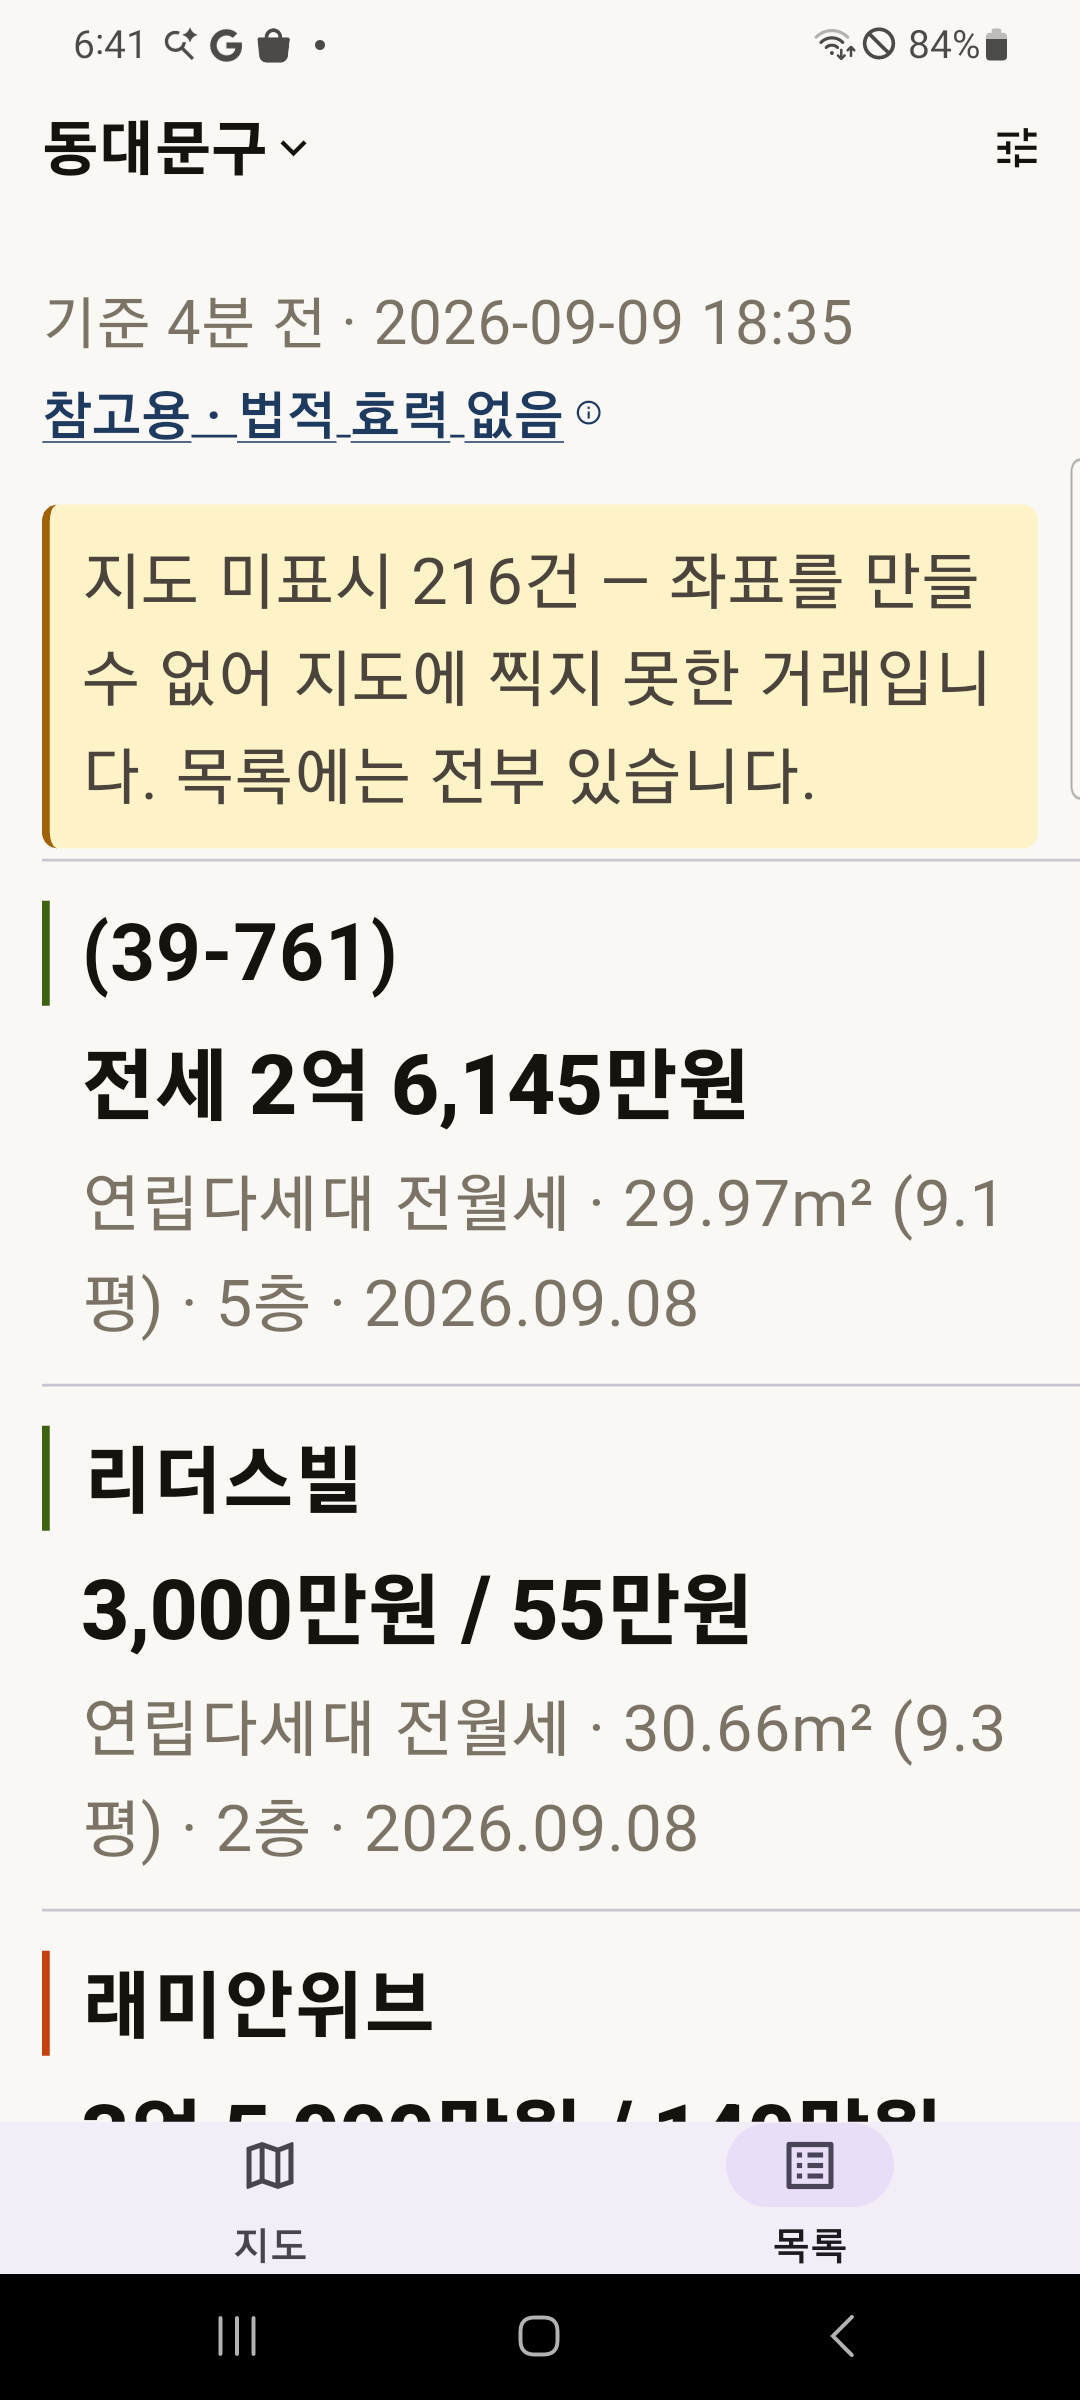
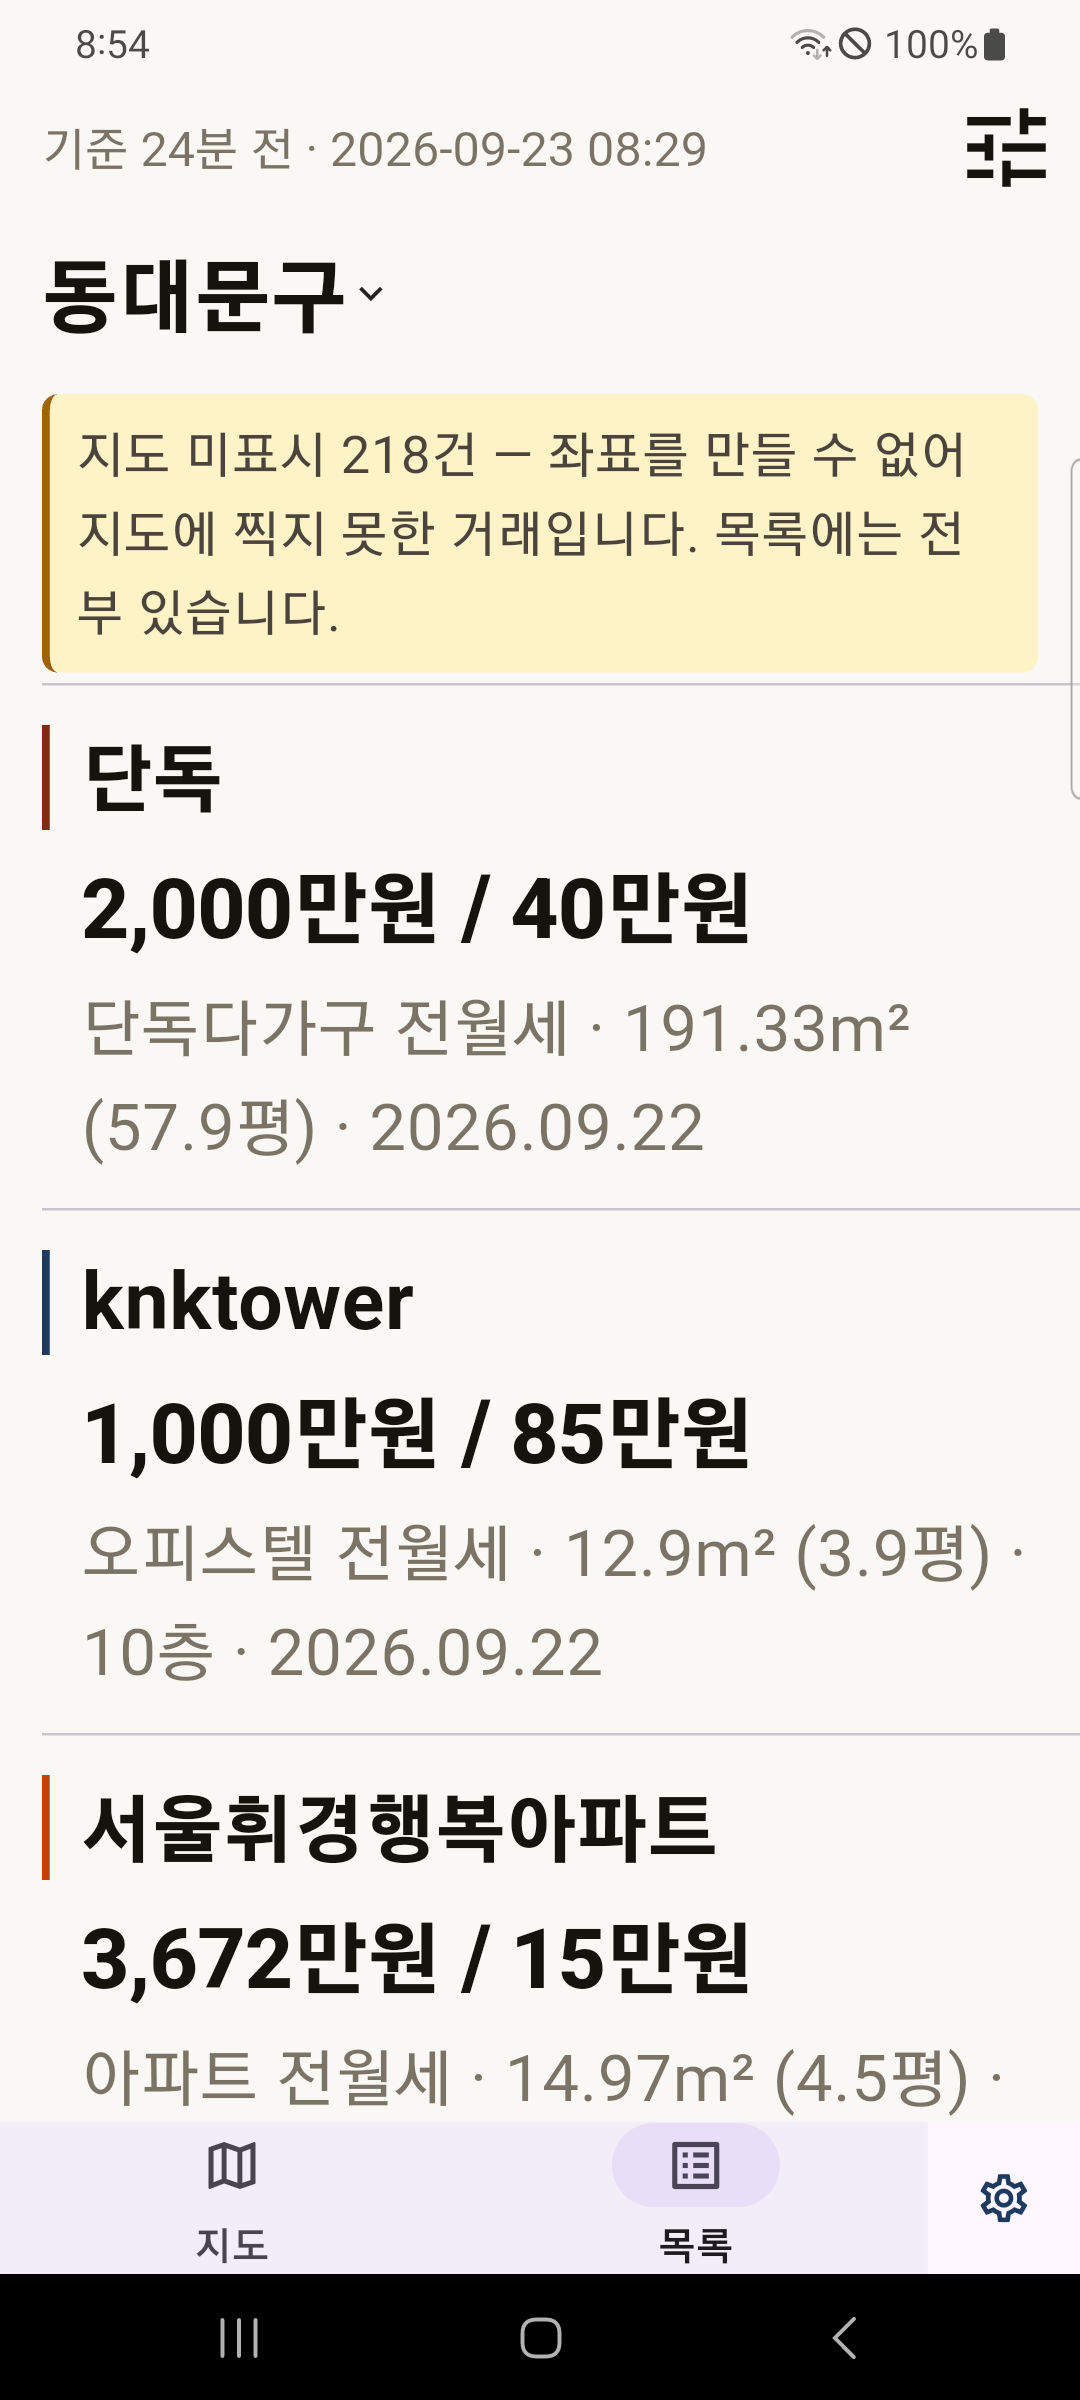
fix: 뒤로 가기가 검색창 대신 앱을 닫던 것
검색창을 열어 둔 채 기기의 뒤로 가기를 누르면 앱이 통째로 꺼졌다.
사용자는 검색만 접으려던 것이라 "뒤로 갔더니 앱이 죽었다"로 읽힌다.
안드로이드에서 뒤로 가기는 열린 것을 먼저 닫는 단추다.

검색창이 열려 있는 동안만 PopScope로 받아 닫는다. 위젯 시험은 두드리기만
했기 때문에 이것을 잡을 수 없었다 — 기기의 뒤로 가기는 위젯이 아니라
플랫폼에서 오므로, 그 신호(popRoute)를 그대로 넣는 시험을 먼저 실패시킨 뒤
고쳤다.

스토어 스크린샷 8장도 같은 출시 빌드로 다시 찍었다. 9월 9일 판에는
검색 단추도 설정 탭도 없다.

diff --git a/app/lib/features/map/search_box.dart b/app/lib/features/map/search_box.dart
@@ -149,53 +149,63 @@ class _MapSearchBoxState extends ConsumerState<MapSearchBox> {
       );
     }
 
-    return Column(
-      crossAxisAlignment: CrossAxisAlignment.stretch,
-      children: [
-        Material(
-          color: Palette.surface,
-          elevation: 2,
-          borderRadius: BorderRadius.circular(24),
-          child: Row(
-            children: [
-              const SizedBox(width: 14),
-              const Icon(Icons.search, size: 20, color: Palette.ink3),
-              const SizedBox(width: 8),
-              Expanded(
-                child: TextField(
-                  controller: _controller,
-                  focusNode: _focus,
-                  textInputAction: TextInputAction.search,
-                  onChanged: _onChanged,
-                  style: const TextStyle(fontSize: 15, color: Palette.ink),
-                  decoration: const InputDecoration(
-                    isDense: true,
-                    border: InputBorder.none,
-                    hintText: '동 이름 · 단지 이름 (예: 중곡동, ㅈㄱㄷ)',
-                    hintStyle: TextStyle(fontSize: 14, color: Palette.ink3),
+    // 안드로이드의 뒤로 가기는 **열린 것을 먼저 닫는** 단추다. 막아 두지 않으면
+    // 검색창만 접으려던 사람에게 앱이 통째로 꺼진다 — 화면에 열린 것이 있는데
+    // 뒤로 가기가 그것을 그냥 지나치면, 사용자는 앱이 죽었다고 읽는다.
+    return PopScope(
+      canPop: false,
+      onPopInvokedWithResult: (didPop, _) {
+        if (didPop) return;
+        _toggle();
+      },
+      child: Column(
+        crossAxisAlignment: CrossAxisAlignment.stretch,
+        children: [
+          Material(
+            color: Palette.surface,
+            elevation: 2,
+            borderRadius: BorderRadius.circular(24),
+            child: Row(
+              children: [
+                const SizedBox(width: 14),
+                const Icon(Icons.search, size: 20, color: Palette.ink3),
+                const SizedBox(width: 8),
+                Expanded(
+                  child: TextField(
+                    controller: _controller,
+                    focusNode: _focus,
+                    textInputAction: TextInputAction.search,
+                    onChanged: _onChanged,
+                    style: const TextStyle(fontSize: 15, color: Palette.ink),
+                    decoration: const InputDecoration(
+                      isDense: true,
+                      border: InputBorder.none,
+                      hintText: '동 이름 · 단지 이름 (예: 중곡동, ㅈㄱㄷ)',
+                      hintStyle: TextStyle(fontSize: 14, color: Palette.ink3),
+                    ),
                   ),
                 ),
-              ),
-              IconButton(
-                tooltip: '닫기',
-                onPressed: _toggle,
-                icon: const Icon(Icons.close, size: 20, color: Palette.ink3),
-              ),
-            ],
-          ),
-        ),
-        if (_controller.text.trim().length >= kMinQueryLength)
-          Padding(
-            padding: const EdgeInsets.only(top: 6),
-            child: _Results(
-              hits: _hits,
-              onPick: _choose,
-              unavailable: searchUnavailable(
-                ref.watch(regionIndexProvider).value,
-              ),
+                IconButton(
+                  tooltip: '닫기',
+                  onPressed: _toggle,
+                  icon: const Icon(Icons.close, size: 20, color: Palette.ink3),
+                ),
+              ],
             ),
           ),
-      ],
+          if (_controller.text.trim().length >= kMinQueryLength)
+            Padding(
+              padding: const EdgeInsets.only(top: 6),
+              child: _Results(
+                hits: _hits,
+                onPick: _choose,
+                unavailable: searchUnavailable(
+                  ref.watch(regionIndexProvider).value,
+                ),
+              ),
+            ),
+        ],
+      ),
     );
   }
 }

diff --git a/app/test/search_box_test.dart b/app/test/search_box_test.dart
@@ -1,9 +1,9 @@
 import 'dart:convert';
-import 'dart:typed_data';
 
 import 'package:drift/drift.dart' show Value;
 import 'package:drift/native.dart';
 import 'package:flutter/material.dart';
+import 'package:flutter/services.dart';
 import 'package:flutter_riverpod/flutter_riverpod.dart';
 import 'package:flutter_test/flutter_test.dart';
 import 'package:realdealmap/data/db/database.dart';
@@ -145,6 +145,41 @@ void main() {
 
     await tester.tap(find.byIcon(Icons.close));
     await tester.pumpAndSettle();
+
+    expect(find.byType(TextField), findsNothing);
+  });
+
+  /// 기기의 뒤로 가기. 안드로이드가 보내는 것과 같은 신호를 넣는다.
+  Future<void> back(WidgetTester tester) async {
+    await tester.binding.defaultBinaryMessenger.handlePlatformMessage(
+      'flutter/navigation',
+      const JSONMethodCodec().encodeMethodCall(const MethodCall('popRoute')),
+      (_) {},
+    );
+    await tester.pumpAndSettle();
+  }
+
+  // 안드로이드에서 뒤로 가기는 **열린 것을 먼저 닫는** 단추다. 검색창을 열어 둔
+  // 채 누르면 앱이 통째로 꺼지는데, 사용자는 검색만 접으려던 것이라
+  // "뒤로 갔더니 앱이 죽었다"로 읽는다. 실기기에서 그렇게 꺼졌다.
+  testWidgets('뒤로 가기는 앱이 아니라 검색창을 닫는다', (tester) async {
+    await open(tester, app());
+    expect(find.byType(TextField), findsOneWidget);
+
+    await back(tester);
+
+    expect(find.byType(TextField), findsNothing);
+    expect(find.bySemanticsLabel('주소 검색'), findsOneWidget);
+  });
+
+  // 친 글자가 있어도 한 번이면 닫힌다 — 글자 지우기와 창 닫기를 두 번에
+  // 나누면, 사용자는 뒤로 가기를 두 번 눌러야 하는 이유를 알 수 없다.
+  testWidgets('친 글자가 있어도 뒤로 가기 한 번이면 닫힌다', (tester) async {
+    await open(tester, app());
+    await type(tester, '중곡동');
+    expect(inList('중곡동'), findsOneWidget);
+
+    await back(tester);
 
     expect(find.byType(TextField), findsNothing);
   });
